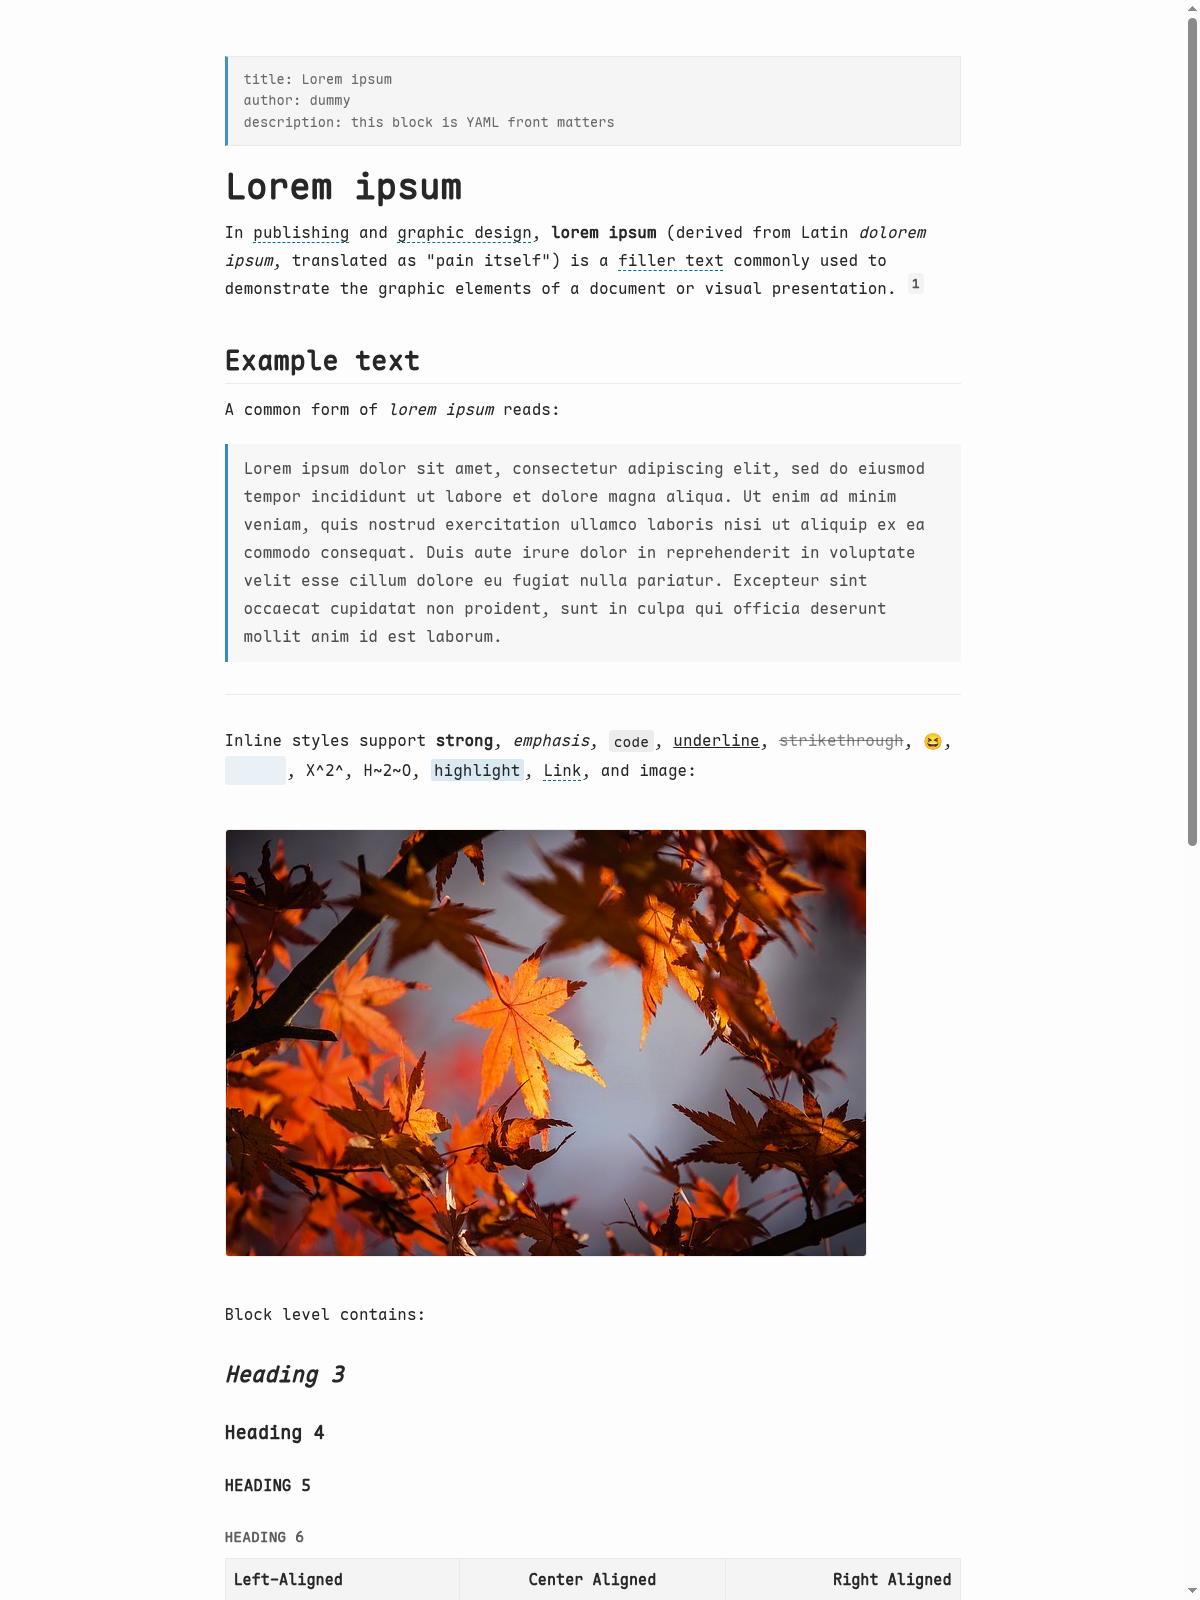
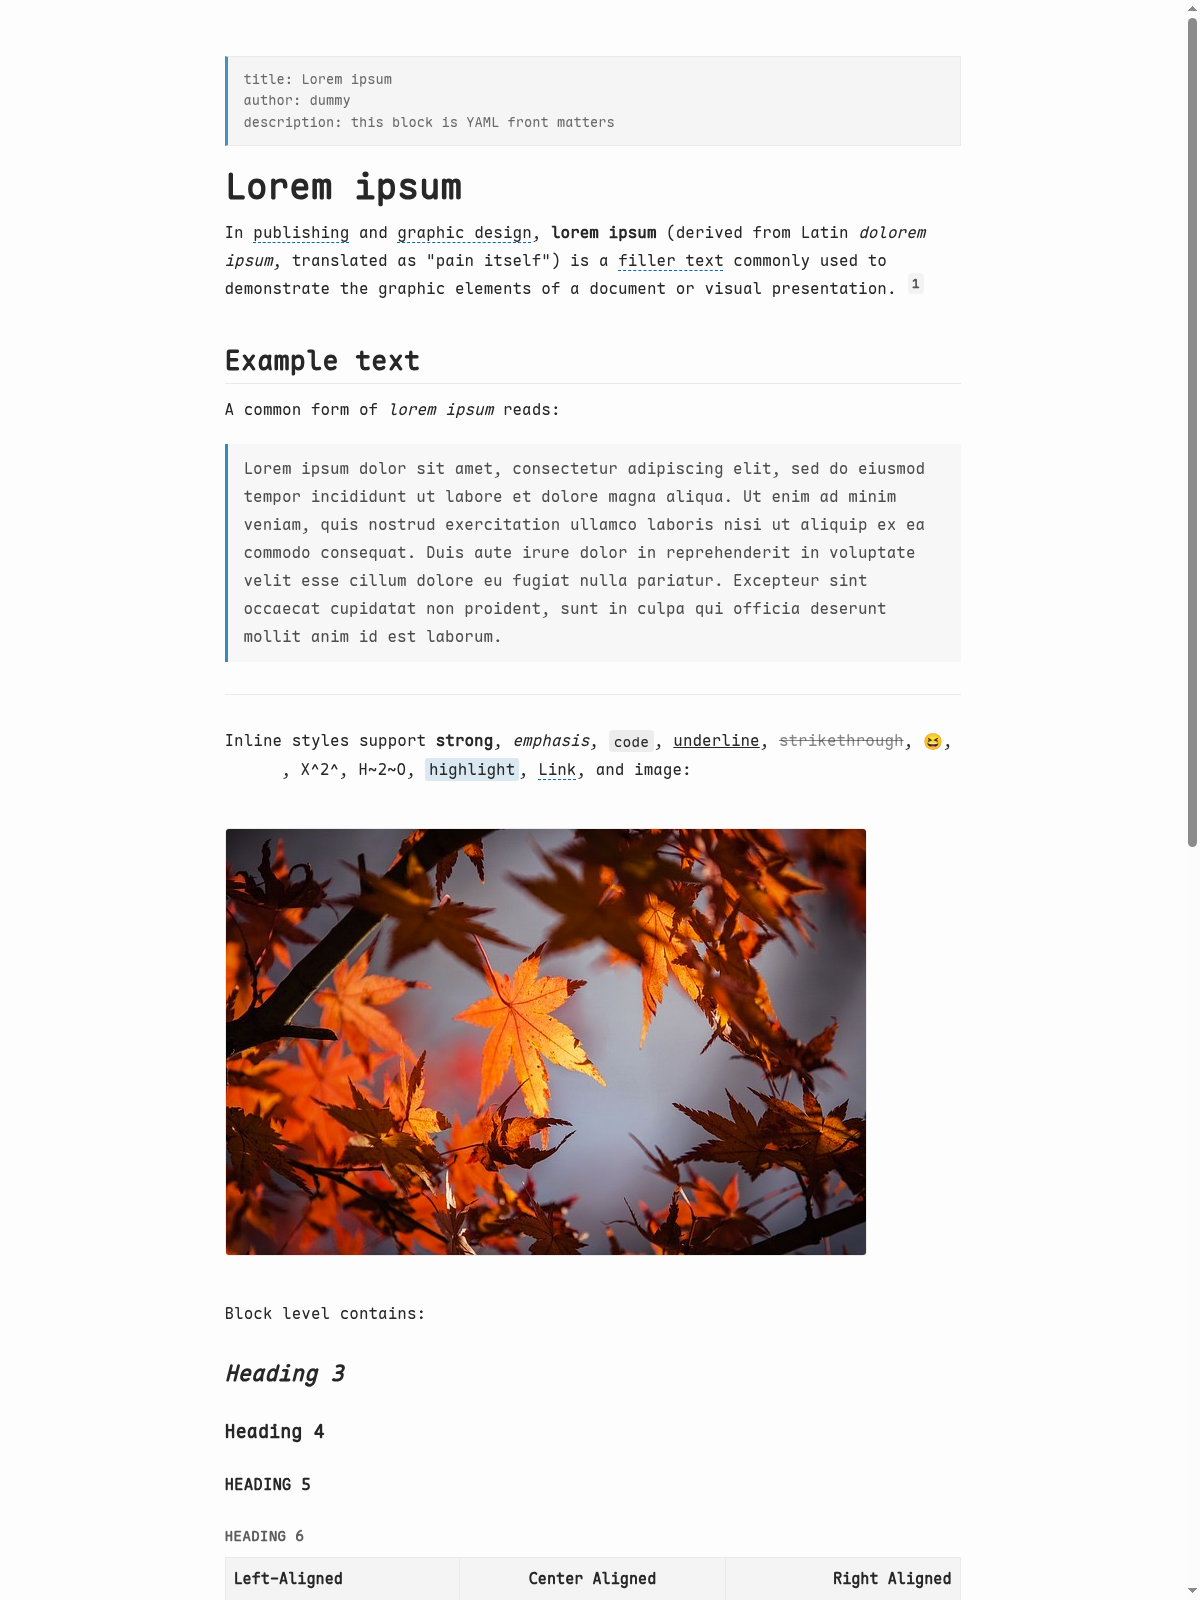
feat: add standalone dark theme

diff --git a/README.md b/README.md
@@ -20,29 +20,40 @@
 
 ## Preview
 
-<div align="center">
-  <img src="images/apaper-writing-overview.png" alt="Apaper writing overview" width="82%">
-</div>
+| Light | Dark |
+| :--: | :--: |
+| <img src="images/apaper-writing-overview.png" alt="Apaper writing overview" width="100%"> | <img src="images/apaper-dark-writing-overview.png" alt="Apaper Dark writing overview" width="100%"> |
 
 ## Features
 
 - Matches the visual rhythm of an AstroPaper-based technical blog.
 - Uses a compact, text-first layout for long-form Markdown editing.
 - Covers headings, lists, blockquotes, tables, code fences, math, diagrams, raw HTML blocks, TOC, footnotes, and YAML front matter.
-- Includes light and dark color schemes through Typora's system color mode.
+- Provides separate Apaper and Apaper Dark theme files, so dark mode can be selected without changing the system color mode.
 - Bundles Maple Mono CN for consistent Chinese and English text rendering.
 
 ## Installation
 
 1. Download this repository or the latest release archive.
 2. In Typora, open **Preferences** > **Appearance** > **Open Theme Folder**.
-3. Copy `apaper.css` and the `apaper` folder into Typora's theme folder.
-4. Restart Typora and select **Apaper** from the theme menu.
+3. Copy `apaper.css`, `apaper-dark.css`, and the `apaper` folder into Typora's theme folder.
+4. Restart Typora and select **Apaper** or **Apaper Dark** from the theme menu.
+
+## Theme Selection
+
+| System or App Appearance | Typora Theme |
+| :-- | :-- |
+| Light | **Apaper** |
+| Dark | **Apaper Dark** |
+| Keep the system light, but use a dark Typora editor | **Apaper Dark** |
+
+Typora treats `apaper.css` and `apaper-dark.css` as two separate themes, so switch between them from Typora's theme menu when your preferred appearance changes.
 
 ## Files
 
 ```text
 apaper.css
+apaper-dark.css
 apaper/
 └── fonts/
     └── maple-mono-cn/

diff --git a/README_CN.md b/README_CN.md
@@ -21,29 +21,40 @@
 
 ## 预览
 
-<div align="center">
-  <img src="images/apaper-writing-overview.png" alt="Apaper 写作界面预览" width="82%">
-</div>
+| 亮色 | 暗色 |
+| :--: | :--: |
+| <img src="images/apaper-writing-overview.png" alt="Apaper 写作界面预览" width="100%"> | <img src="images/apaper-dark-writing-overview.png" alt="Apaper Dark 写作界面预览" width="100%"> |
 
 ## 特性
 
 - 贴近 AstroPaper 技术博客的视觉节奏。
 - 采用紧凑、文本优先的布局，适合长篇 Markdown 编辑。
 - 覆盖标题、列表、引用块、表格、代码块、数学公式、图表、原始 HTML 块、目录、脚注和 YAML Front Matter。
-- 通过 Typora 的系统配色模式提供亮色和暗色方案。
+- 提供独立的 Apaper 与 Apaper Dark 主题文件，无需切换系统配色即可在 Typora 中选择暗色主题。
 - 内置 Maple Mono CN，保持中英文文本渲染一致。
 
 ## 安装
 
 1. 下载本仓库，或下载最新的 Release 压缩包。
 2. 在 Typora 中打开 **偏好设置** > **外观** > **打开主题文件夹**。
-3. 将 `apaper.css` 和 `apaper` 文件夹复制到 Typora 主题文件夹。
-4. 重启 Typora，并在主题菜单中选择 **Apaper**。
+3. 将 `apaper.css`、`apaper-dark.css` 和 `apaper` 文件夹复制到 Typora 主题文件夹。
+4. 重启 Typora，并在主题菜单中选择 **Apaper** 或 **Apaper Dark**。
+
+## 主题选择
+
+| 系统或应用配色 | Typora 主题 |
+| :-- | :-- |
+| 亮色 | **Apaper** |
+| 暗色 | **Apaper Dark** |
+| 系统保持亮色，但希望 Typora 使用暗色编辑界面 | **Apaper Dark** |
+
+Typora 会将 `apaper.css` 和 `apaper-dark.css` 识别为两个独立主题；当你想切换编辑界面的配色时，直接从 Typora 的主题菜单选择对应主题即可。
 
 ## 文件结构
 
 ```text
 apaper.css
+apaper-dark.css
 apaper/
 └── fonts/
     └── maple-mono-cn/